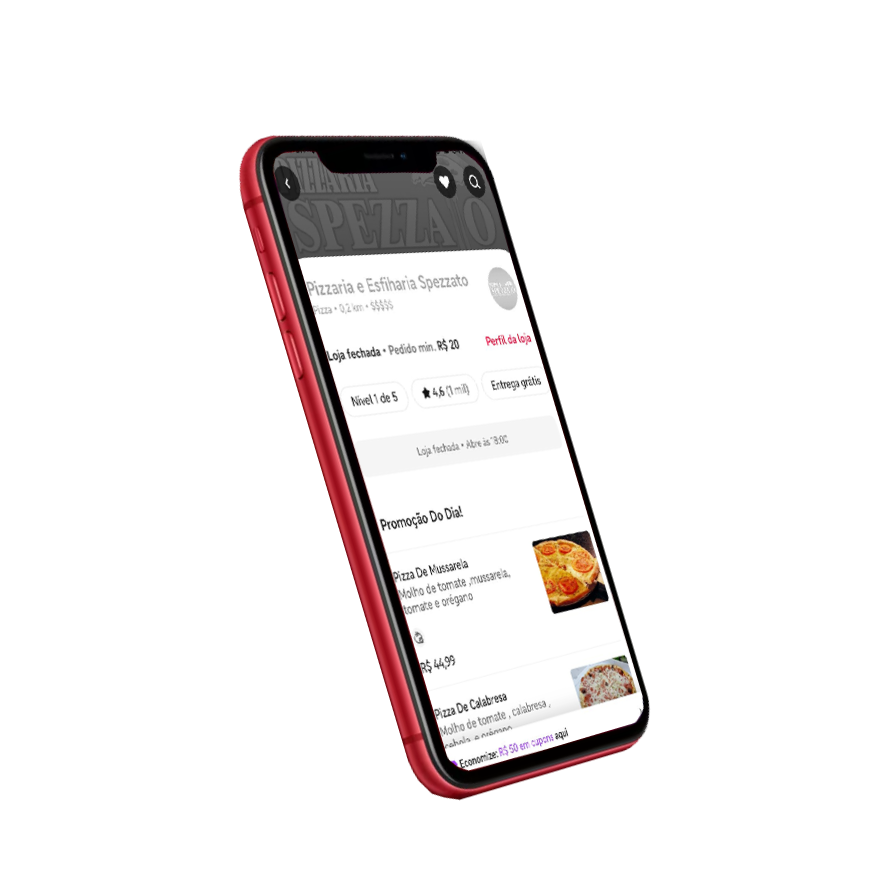
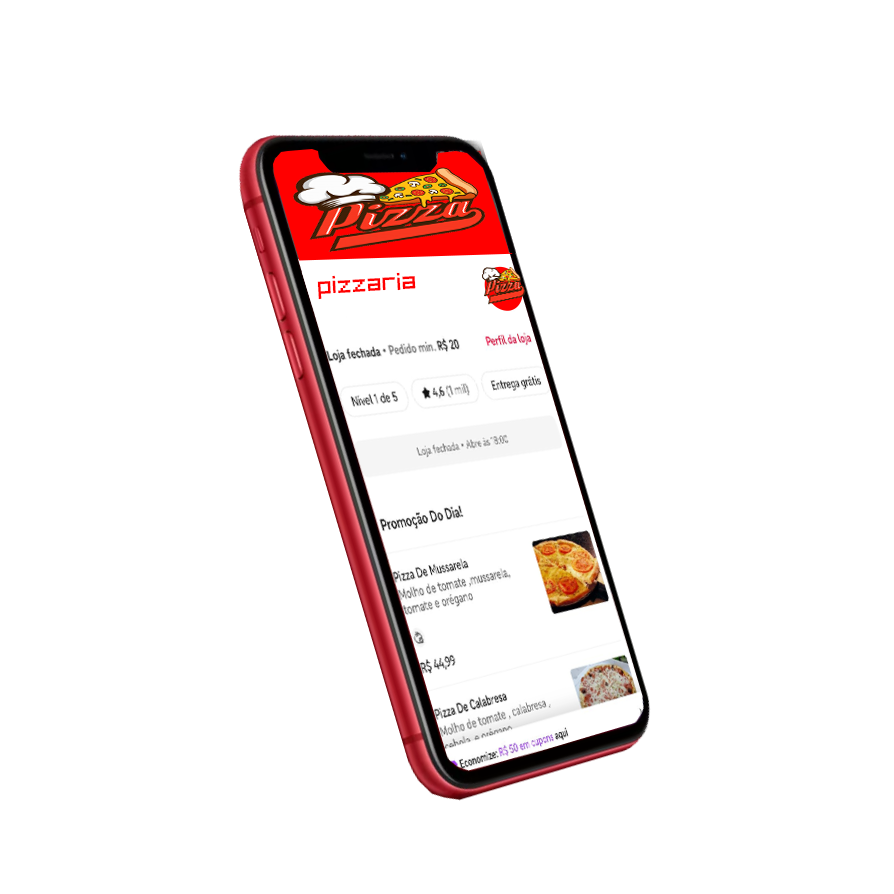
att

Changed region(s): [[0.302, 0.151, 0.604, 0.3624]]

diff --git a/css/styles.css b/css/styles.css
@@ -70,8 +70,8 @@ nav{
 }
 
 nav img{
-    width: 412px;
-    height: 301px;
+    width: auto;
+    height: 200px;
 }
 
 .SubTitulo{
@@ -255,4 +255,164 @@ footer a{
 
 .LogoAlex{
     width: 50px;
+}
+
+.CarrosselPc,
+.CarrosselMobile {
+    display: flex;
+    overflow: hidden;
+    width: 100%;
+}
+
+.CarrosselPc img,
+.CarrosselMobile img {
+    min-width: 100%;
+    transition: transform 1s;
+}
+
+.CarrosselMobile{
+    display: none;
+}
+
+@media (max-width: 1260px){
+    .Titulo{
+        width: 400px;
+    }
+    .PizzaImg{
+        width: 350px;
+    }
+    .PizzaImg img{
+        width: 100%;
+    }
+
+    .Phones{
+        width: 100%;
+
+    }
+    .Phones img{
+        width: 90%;
+    }
+}
+
+@media (max-width: 1024px){
+    .Titulo{
+        width: 300px;
+    }
+    H1{
+        font-size: 45px;
+    }
+    .PizzaImg{
+        width: 300px;
+    }
+    .PizzaImg img{
+        width: 100%;
+    }
+
+    .Phones{
+        width: 100%;
+        flex-direction: row;
+
+    }
+    .Phones img{
+        width: 90%;
+    }
+    .Phone1,
+    .Phone2{
+        margin: 0;
+    }
+    .CarrosselPc{
+        display: none;
+    }
+    .CarrosselMobile{
+        display: flex;
+    }
+    #Slider{
+        height: auto;
+    }
+    .PizzasSalgada,
+    .PizzasDoce,
+    .EsfihaSalgada,
+    .EsfihaDoce{
+    width: auto;
+}
+}
+
+@media (max-width: 500px){
+    main{
+        display: flex;
+        flex-direction: column;
+    }
+    .Titulo{
+        width: 200px;
+    }
+    H1{
+        font-size: 30px;
+    }
+    H3{
+        font-size: 20px;
+    }
+    H2{
+        font-size: 30px;
+    }
+    .Phones{
+        display: flex;
+        flex-direction: column;
+    }
+
+    .Card H4,
+    .Card H5{
+        font-size: 13px;
+    }
+
+    .categoria H2{
+        font-size: 30px;
+    }
+
+    .Card{
+        width: 180px;
+    }
+
+    .Cont{
+        flex-direction: column;
+        width: auto;
+
+    }
+    .ContTitulo{
+        width: 200px;
+    }
+    .ContTitulo H4,
+    .ContTitulo H3{
+        font-size: 20px;
+    }
+
+    .ContRedes{
+        width: 100%;
+        align-items: start;
+        justify-content: start;
+    }
+
+    footer span,
+    footer a{
+        font-size: 10px;
+    }
+    footer{
+        width: auto;
+    }
+
+    .LogoAlex{
+        width: 20px;
+    }
+
+    .instagram,
+    .whatsapp,
+    .maps{
+        scale: .4;
+        width: 250px;
+    }
+
+    .instagram:hover,
+    .whatsapp:hover,
+    .maps:hover{
+        scale: .5;
+    }
 }

diff --git a/index.html b/index.html
@@ -3,12 +3,12 @@
 <head>
     <meta charset="UTF-8">
     <meta name="viewport" content="width=device-width, initial-scale=1.0">
-    <title>Spezzato</title>
+    <title>Pizzaria</title>
     <link rel="stylesheet" href="css/styles.css">
 </head>
 <body>
     <nav>
-        <img src="img/spezatto.png" alt="Logo">
+        <img src="img/pizza.png" alt="Logo">
     </nav>
     <main>
         <div class="Titulo">
@@ -33,10 +33,21 @@
         <div class="SubTitulo">
             <h2><strong>Cardapio</strong></h2>
         </div>
-        <div class="Carrossel">
-            <img src="img/pizza1.png" alt="Pizza1">
-            <img src="img/pizza2.png" alt="Pizza2">
-            <img src="img/pizza3.png" alt="Pizza3">
+        <div class="CarrosselPc">
+            <img src="img/pizza1pc.png" alt="Pizza1">
+            <img src="img/pizza2pc.png" alt="Pizza2">
+            <img src="img/pizza3pc.png" alt="Pizza3">
+            <img src="img/pizza4pc.png" alt="Pizza4">
+            <img src="img/pizza5pc.png" alt="Pizza5">
+            <img src="img/pizza6pc.png" alt="Pizza6">
+        </div>
+        <div class="CarrosselMobile">
+            <img src="img/pizza1mobile.png" alt="Pizza1">
+            <img src="img/pizza2mobile.png" alt="Pizza2">
+            <img src="img/pizza3mobile.png" alt="Pizza3">
+            <img src="img/pizza4mobile.png" alt="Pizza4">
+            <img src="img/pizza5mobile.png" alt="Pizza5">
+            <img src="img/pizza6mobile.png" alt="Pizza6">
         </div>
     </section>
     <section id="Cardapio">
@@ -209,5 +220,6 @@
     <footer>
         <span>Copyright © 2023 <a href="#">spezzato.com.br</a> Todos os direitos reservados. Desenvolvidor por <a href="borgesalex.com.br" target="_blank"><img class="LogoAlex" src="img/logo03.png" alt="Logo alex"></a></span>
     </footer>
+    <script src="js/main.js"></script>
 </body>
 </html>

diff --git a/js/main.js b/js/main.js
@@ -1,0 +1,33 @@
+let imagespc = document.querySelectorAll('.CarrosselPc img');
+let imagesmobile = document.querySelectorAll('.CarrosselMobile img');
+let currentIndexPc = 0;
+let currentIndexMobile = 0;
+
+function updateImagepc() {
+    let offset = -currentIndexPc * 100;
+    for (let img of imagespc) {
+        img.style.transform = `translateX(${offset}%)`;
+    }
+}
+
+function nextImagepc() {
+    currentIndexPc = (currentIndexPc + 1) % imagespc.length;
+    updateImagepc();
+}
+
+function updateImagemobile() {
+    let offset = -currentIndexMobile * 100;
+    for (let img of imagesmobile) {
+        img.style.transform = `translateX(${offset}%)`;
+    }
+}
+
+function nextImagemobile() {
+    currentIndexMobile = (currentIndexMobile + 1) % imagesmobile.length;
+    updateImagemobile();
+}
+
+setInterval(function() {
+    nextImagepc();
+    nextImagemobile();
+}, 2000);
